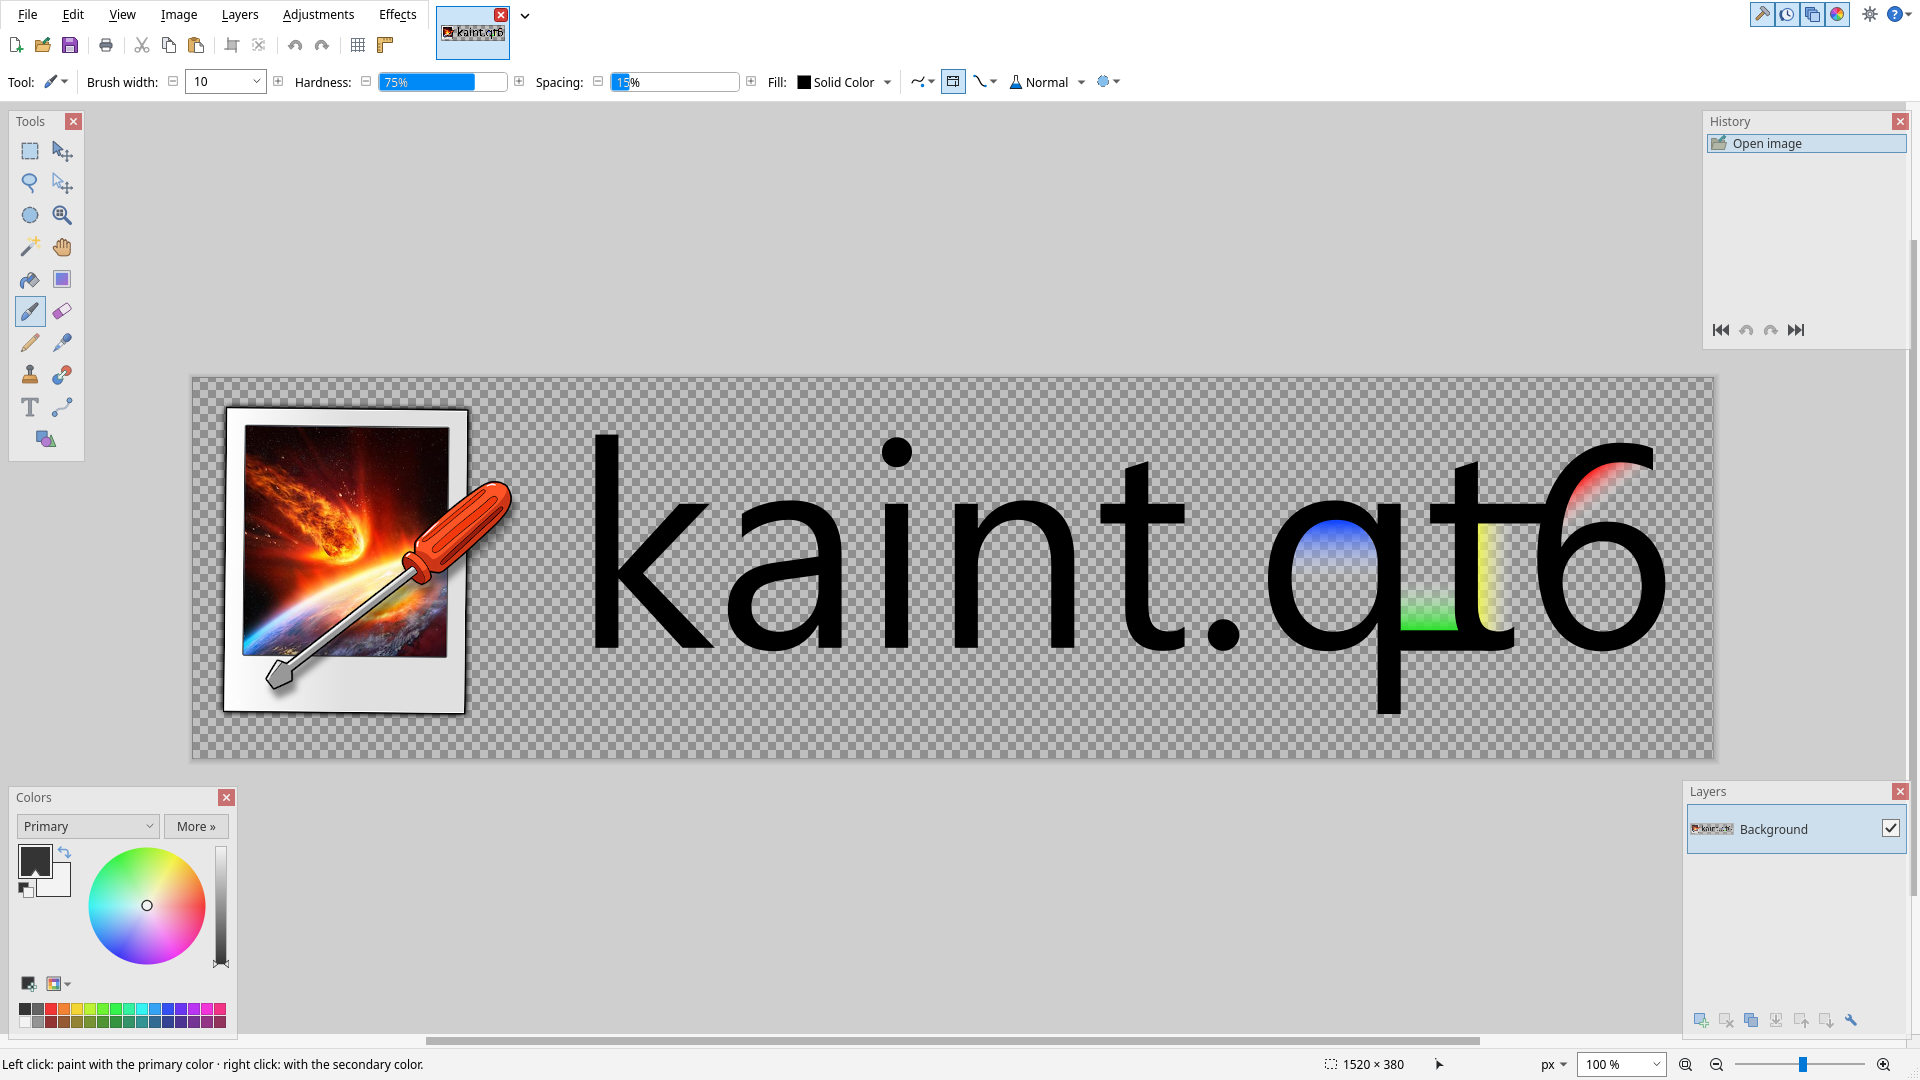
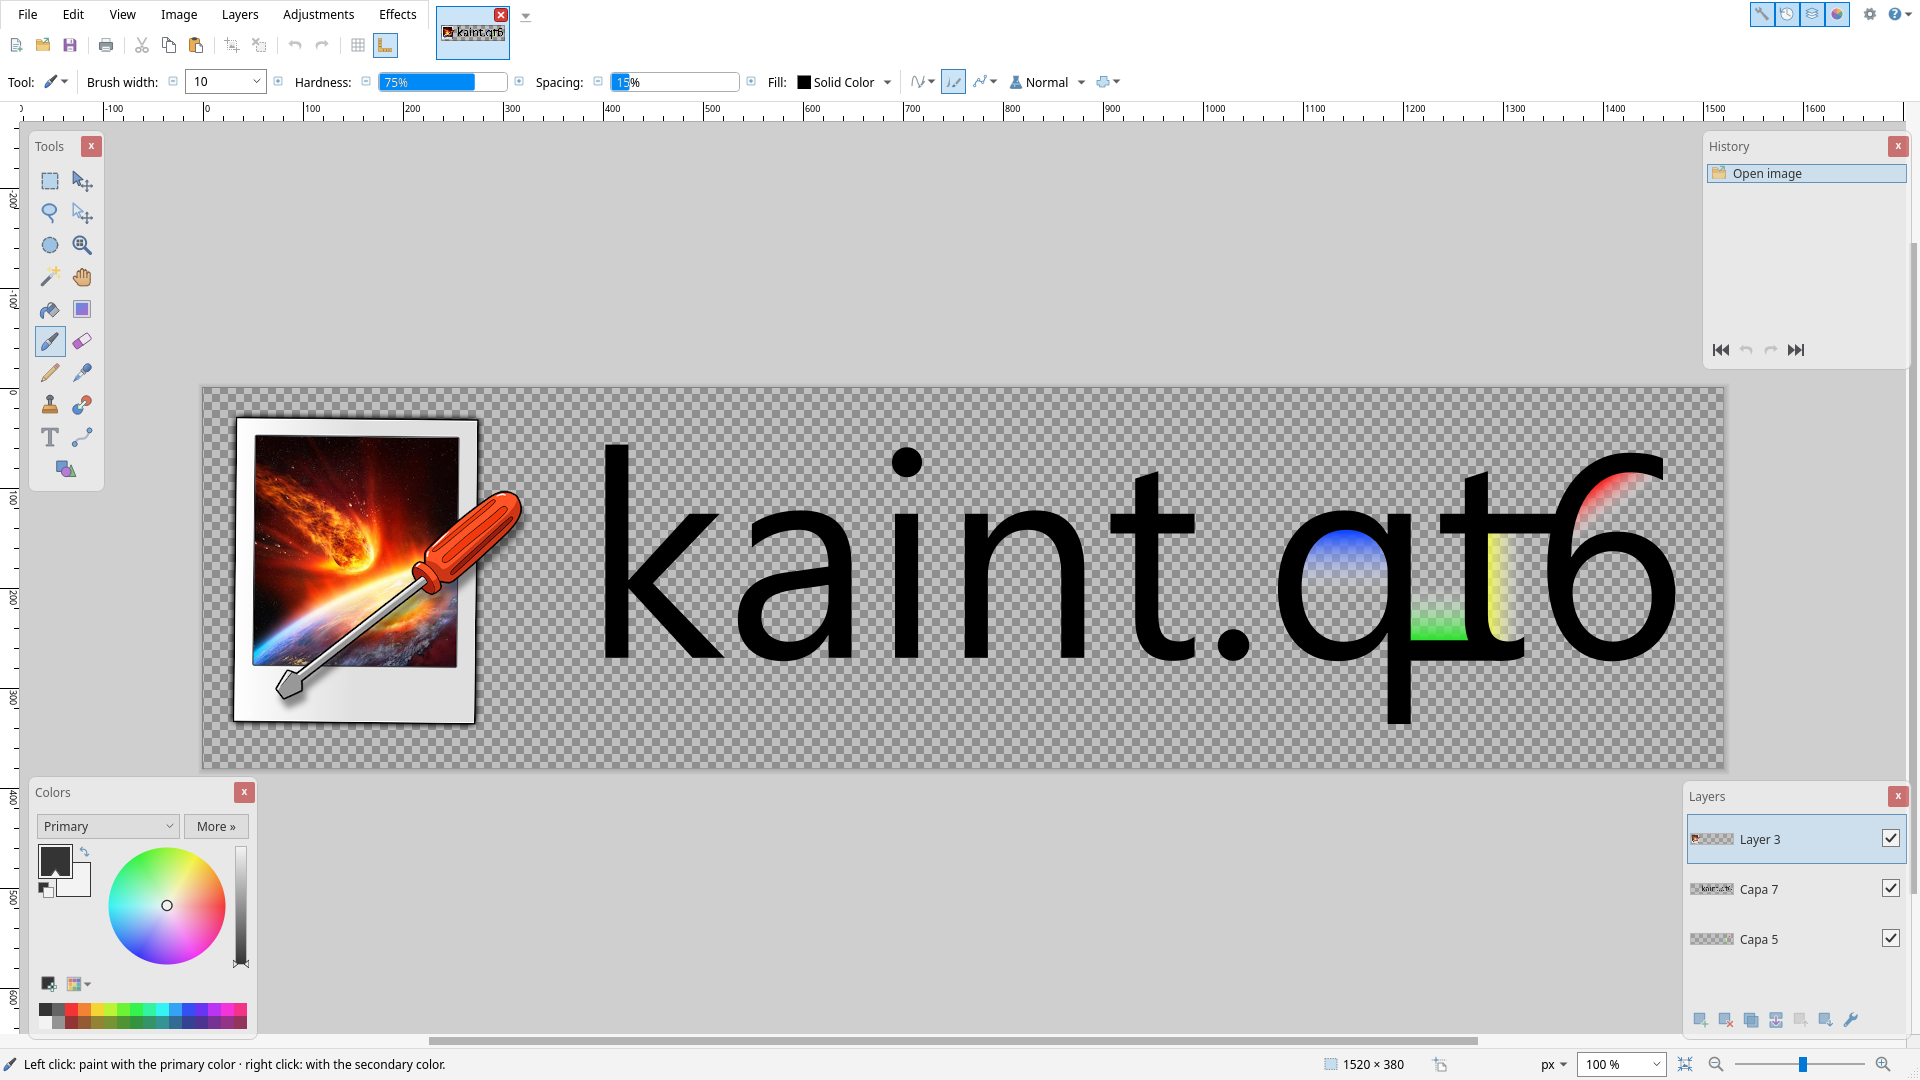
updated kaint.html

diff --git a/KaintHTML/css/kaint.css b/KaintHTML/css/kaint.css
@@ -860,7 +860,12 @@ input[type="checkbox"] {
 .floating-panel .resize.ne { right: -4px; top: -4px; width: 10px; height: 10px; cursor: nesw-resize; }
 .floating-panel .resize.nw { left: -4px; top: -4px; width: 10px; height: 10px; cursor: nwse-resize; }
 
-/* Herramientas */
+/* Herramientas: la ventana mide lo que sus columnas, también con una sola (sin el ancho mínimo de
+   las demás, que la dejaba más ancha que su columna). */
+.floating-panel[data-panel="tools"] {
+    min-width: 0;
+}
+
 .tools-grid {
     display: grid;
     grid-template-columns: repeat(var(--columns, 2), 30px);
@@ -2748,8 +2753,27 @@ fieldset.group > legend {
 
 /* Azul (como el de Paint.NET): las dos barras de herramientas en un degradado de casi blanco a azul
    claro con una línea azul oscura debajo, los menús casi blancos con borde azul y la franja de
-   botones de las ventanas azulada (las reglas las dibuja el lienzo en degradado). */
+   botones de las ventanas azulada (las reglas las dibuja el lienzo en degradado).
+   Como TopRow en Kaint: el degradado empieza bajo los menús y sigue a lo ancho de toda la fila (si
+   no, se cortaba al final de la barra principal y quedaba blanco bajo la tira de imágenes); la
+   barra principal es transparente y sin bordes encima de él. */
+:root.blue #top-row {
+    isolation: isolate;
+    overflow: clip;
+}
+
 :root.blue #main-toolbar {
+    position: relative;
+    background: transparent;
+    border-left: none;
+    border-right: none;
+}
+
+:root.blue #main-toolbar::before {
+    content: "";
+    position: absolute;
+    z-index: -1;
+    inset: 0 -100vw;
     background: linear-gradient(#fbfdff, #ebf1f9);
 }
 

diff --git a/KaintHTML/js/tools/MoveTools.js b/KaintHTML/js/tools/MoveTools.js
@@ -533,11 +533,12 @@ class MoveToolBase extends Tool {
         if (!box || (!s && this.doc.selection.isEmpty()))
             return;
         // La selección se ve donde quedará; mientras se arrastra (salvo que en Configuración no se
-        // oculte nada), solo el icono de mover y, al girar, el punto de giro.
-        if (s && dragging)
+        // oculte nada), solo el icono de mover y, al girar, el punto de giro: sin el contorno
+        // tampoco (MoveSelectedTool::paintOverlay de Kaint).
+        const hide = dragging && Settings.get("hideMoveBox") !== false;
+        if (s && dragging && !hide)
             view.strokeSelection(ctx, s.selBase, box.matrix());
         const g = this.viewGeometry(box);
-        const hide = dragging && Settings.get("hideMoveBox") !== false;
         ctx.save();
         if (!hide)
             for (const v of g.handles)

diff --git a/KaintHTML/js/ui/Panels.js b/KaintHTML/js/ui/Panels.js
@@ -230,7 +230,8 @@ export function toolsPanel(app) {
                 const rows = Math.min(count, Math.max(1, Math.floor((h + gap) / (cell() + gap))));
                 return Math.ceil(count / rows);
             }
-            return Math.floor((w + gap) / (cell() + gap));
+            // Al menos una columna (ToolsPanel::columnsFor): con 0, apply() volvía a las dos.
+            return Math.max(1, Math.floor((w + gap) / (cell() + gap)));
         },
     };
     return grid;

diff --git a/README.md b/README.md
@@ -115,10 +115,32 @@ and the close buttons of the image tabs animate, and a modal dialog blinks when 
 window behind it (on X11 and Windows). Turn it all off with **Settings → User interface →
 Animations**.
 
+#### Kaint style
+
+Kaint's own interface: floating windows with a border and slightly rounded corners, and a Colors
+window with a primary/secondary selector and a brightness slider.
+
 <table>
   <tr>
-    <td width="50%"><img src="img/other/screenshot-light.png" alt="Light theme"></td>
-    <td width="50%"><img src="img/other/screenshot.png" alt="Dark theme"></td>
+    <td width="50%"><img src="img/other/screenshot-light.png" alt="Kaint style, light theme"></td>
+    <td width="50%"><img src="img/other/screenshot.png" alt="Kaint style, dark theme"></td>
+  </tr>
+  <tr>
+    <td align="center"><sub>Light</sub></td>
+    <td align="center"><sub>Dark</sub></td>
+  </tr>
+</table>
+
+#### Paint.NET 5 style
+
+A recreation of Paint.NET 5: more compact, with borderless windows, tighter menus and buttons and
+Paint.NET's Colors window. Pick it in **Settings → User interface → Interface style** (or in the
+welcome window).
+
+<table>
+  <tr>
+    <td width="50%"><img src="img/other/netscreenshot-light.png" alt="Paint.NET 5 style, light theme"></td>
+    <td width="50%"><img src="img/other/netscreenshot.png" alt="Paint.NET 5 style, dark theme"></td>
   </tr>
   <tr>
     <td align="center"><sub>Light</sub></td>
